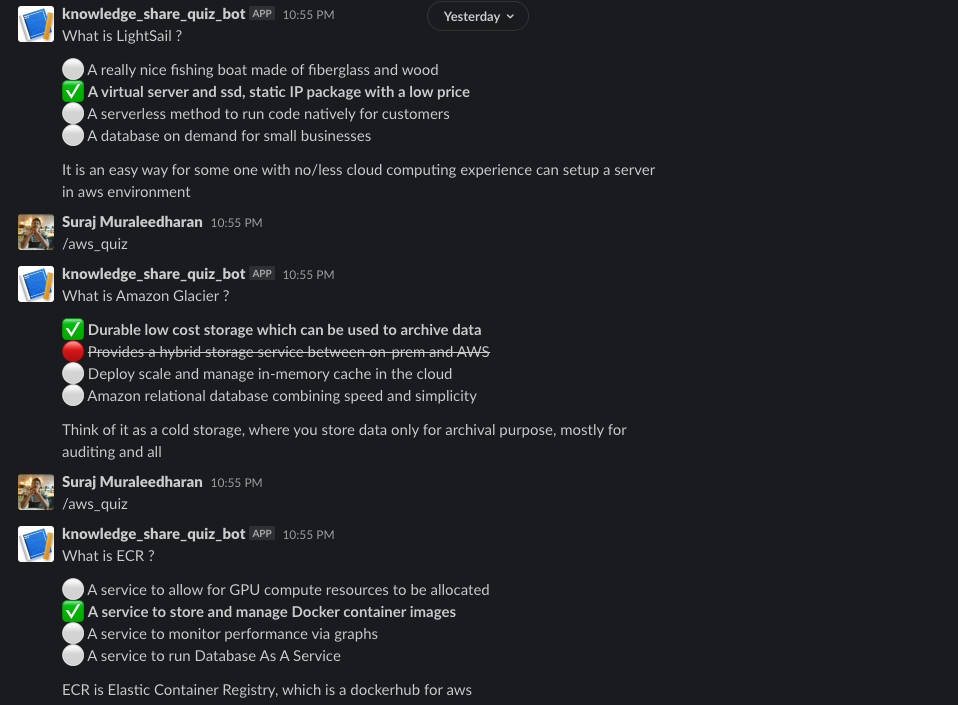
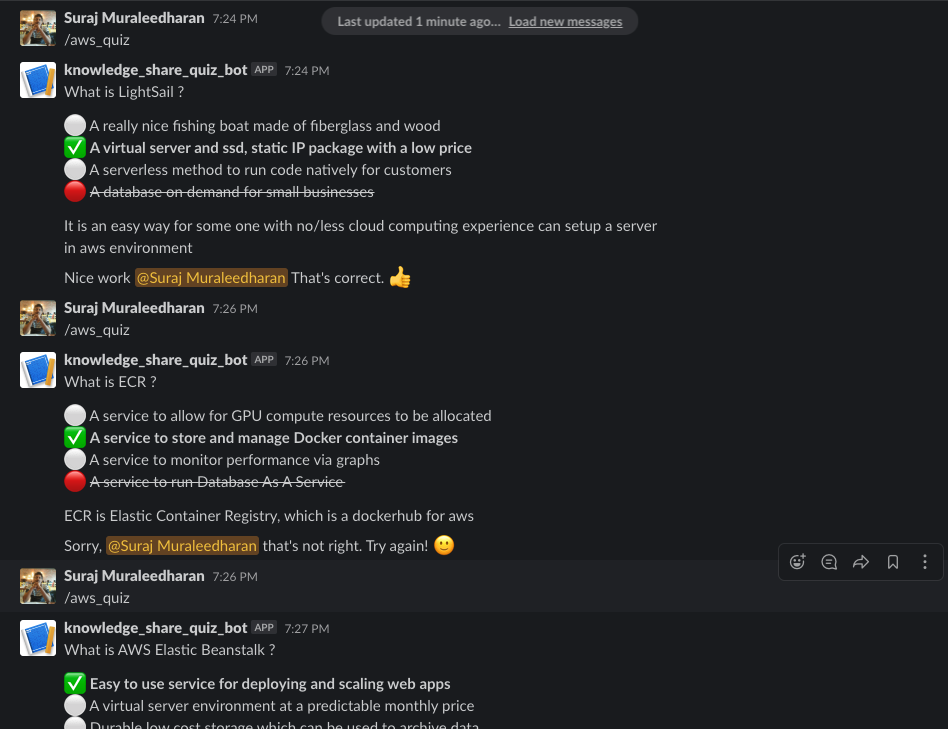
Quoting the selected user in response message

Changed region(s): [[0.0, 0.0, 0.673, 1.0], [0.8259, 0.7489, 0.9483, 0.7801], [0.3977, 0.7489, 0.4283, 0.7801]]

diff --git a/src/main/java/com/knowledge/share/quiz/mapper/QuizMapper.java b/src/main/java/com/knowledge/share/quiz/mapper/QuizMapper.java
@@ -1,24 +1,42 @@
 package com.knowledge.share.quiz.mapper;
 
 import com.slack.api.model.block.ActionsBlock;
+import com.slack.api.model.block.DividerBlock;
 import com.slack.api.model.block.LayoutBlock;
 import com.slack.api.model.block.SectionBlock;
 import com.slack.api.model.block.composition.MarkdownTextObject;
-import com.slack.api.model.block.composition.PlainTextObject;
 import com.slack.api.model.block.composition.TextObject;
 import com.slack.api.model.block.element.BlockElement;
-import com.slack.api.model.block.element.ButtonElement;
+import org.apache.logging.log4j.LogManager;
+import org.apache.logging.log4j.Logger;
 import org.springframework.stereotype.Component;
 
-import java.util.ArrayList;
+import java.util.LinkedList;
 import java.util.List;
+
+import static com.slack.api.model.block.composition.BlockCompositions.plainText;
+import static com.slack.api.model.block.element.BlockElements.asElements;
+import static com.slack.api.model.block.element.BlockElements.button;
 
 @Component
 public class QuizMapper {
-
+    private static final Logger logger = LogManager.getLogger(QuizMapper.class);
     private static final String WHITE_CHECK_MARK = ":white_check_mark: ";
     private static final String RED_CIRCLE = ":red_circle: ";
     private static final String WHITE_CIRCLE = ":white_circle: ";
+
+    private List<BlockElement> buttons(final Long id) {
+        return asElements(
+                button(b -> b.actionId("Answer-A")
+                        .text(plainText(pt -> pt.text("1"))).value(String.valueOf(id))),
+                button(b -> b.actionId("Answer-B")
+                        .text(plainText(pt -> pt.text("2"))).value(String.valueOf(id))),
+                button(b -> b.actionId("Answer-C")
+                        .text(plainText(pt -> pt.text("3"))).value(String.valueOf(id))),
+                button(b -> b.actionId("Answer-D")
+                        .text(plainText(pt -> pt.text("4"))).value(String.valueOf(id)))
+        );
+    }
 
     public LayoutBlock questionBlock(final String question) {
         SectionBlock.SectionBlockBuilder builder = SectionBlock.builder();
@@ -53,8 +71,15 @@ public class QuizMapper {
                                           final String option4,
                                           final String answer,
                                           final String selectedAnswer) {
+        List<String> optionsAsList = new LinkedList<>();
+        optionsAsList.add(option1);
+        optionsAsList.add(option2);
+        optionsAsList.add(option3);
+        optionsAsList.add(option4);
+        String message = generateFormattedMessage(optionsAsList, answer, selectedAnswer);
+        logger.info(message);
         StringBuilder builder = new StringBuilder();
-        if (answer.equals("A")) {
+        if (answer.equals("1")) {
             builder.append(WHITE_CHECK_MARK).append('*').append(option1).append('*');
         } else if (selectedAnswer.equals("1")) {
             builder.append(RED_CIRCLE).append('~').append(option1).append('~');
@@ -63,8 +88,7 @@ public class QuizMapper {
         }
         builder.append("\n");
 
-
-        if (answer.equals("B")) {
+        if (answer.equals("2")) {
             builder.append(WHITE_CHECK_MARK).append('*').append(option2).append('*');
         } else if (selectedAnswer.equals("2")) {
             builder.append(RED_CIRCLE).append('~').append(option2).append('~');
@@ -72,7 +96,7 @@ public class QuizMapper {
             builder.append(WHITE_CIRCLE).append(option2);
         }
         builder.append("\n");
-        if (answer.equals("C")) {
+        if (answer.equals("3")) {
             builder.append(WHITE_CHECK_MARK).append('*').append(option3).append('*');
         } else if (selectedAnswer.equals("3")) {
             builder.append(RED_CIRCLE).append('~').append(option3).append('~');
@@ -81,7 +105,7 @@ public class QuizMapper {
         }
         builder.append("\n");
 
-        if (answer.equals("D")) {
+        if (answer.equals("4")) {
             builder.append(WHITE_CHECK_MARK).append('*').append(option4).append('*');
         } else if (selectedAnswer.equals("4")) {
             builder.append(RED_CIRCLE).append('~').append(option4).append('~');
@@ -89,6 +113,7 @@ public class QuizMapper {
             builder.append(WHITE_CIRCLE).append(option4);
         }
         builder.append("\n");
+
         MarkdownTextObject.MarkdownTextObjectBuilder
                 textObjectBuilder = MarkdownTextObject.builder();
         textObjectBuilder.text(builder.toString());
@@ -96,77 +121,75 @@ public class QuizMapper {
         return sectionBlockBuilder.text(textObjectBuilder.build()).build();
     }
 
+    private String generateFormattedMessage(final List<String> optionsAsList,
+                                            final String answer,
+                                            final String selectedAnswer) {
+        StringBuilder builder = new StringBuilder();
+        for (String currentOption : optionsAsList) {
+            if (answer.equals("4")) {
+                builder.append(WHITE_CHECK_MARK)
+                        .append('*').append(currentOption).append('*');
+            } else if (selectedAnswer.equals("4")) {
+                builder.append(RED_CIRCLE)
+                        .append('~').append(currentOption).append('~');
+            } else {
+                builder.append(WHITE_CIRCLE).append(currentOption);
+            }
+            builder.append("\n");
+        }
+        return builder.toString();
+    }
+
     public LayoutBlock answers(final Long id) {
         ActionsBlock.ActionsBlockBuilder builder = ActionsBlock.builder();
         return builder.elements(buttons(id)).build();
     }
 
-    private List<BlockElement> buttons(final Long id) {
-        List<BlockElement> blockElements = new ArrayList<>();
-        blockElements.add(firstOption(id));
-        blockElements.add(secondOption(id));
-        blockElements.add(thirdOption(id));
-        blockElements.add(forthOption(id));
-        return blockElements;
-    }
-
-    private BlockElement firstOption(final Long id) {
-        ButtonElement.ButtonElementBuilder builder = ButtonElement.builder();
-        builder.value(String.valueOf(id)).text(firstButton()).actionId("Answer-A");
-        return builder.build();
-    }
-
-    private PlainTextObject firstButton() {
-        PlainTextObject.PlainTextObjectBuilder builder = PlainTextObject.builder();
-        builder.text("1").emoji(true);
-        return builder.build();
-    }
-
-    private BlockElement secondOption(final Long id) {
-        ButtonElement.ButtonElementBuilder builder = ButtonElement.builder();
-        builder.value(String.valueOf(id)).text(secondButton()).actionId("Answer-B");
-        return builder.build();
-    }
-
-    private PlainTextObject secondButton() {
-        PlainTextObject.PlainTextObjectBuilder builder = PlainTextObject.builder();
-        builder.text("2").emoji(true);
-        return builder.build();
-    }
-
-    private BlockElement thirdOption(final Long id) {
-        ButtonElement.ButtonElementBuilder builder = ButtonElement.builder();
-        builder.value(String.valueOf(id)).text(thirdButton()).actionId("Answer-C");
-        return builder.build();
-    }
-
-    private PlainTextObject thirdButton() {
-        PlainTextObject.PlainTextObjectBuilder builder = PlainTextObject.builder();
-        builder.text("3").emoji(true);
-        return builder.build();
-    }
-
-    private BlockElement forthOption(final Long id) {
-        ButtonElement.ButtonElementBuilder builder = ButtonElement.builder();
-        builder.value(String.valueOf(id)).text(forthButton()).actionId("Answer-D");
-        return builder.build();
-    }
-
-    private PlainTextObject forthButton() {
-        PlainTextObject.PlainTextObjectBuilder builder = PlainTextObject.builder();
-        builder.text("4").emoji(true);
-        return builder.build();
-    }
-
-    public LayoutBlock messageBlock(final String message) {
+    public LayoutBlock messageBlock(final String message,
+                                    final String user,
+                                    final boolean status) {
         SectionBlock.SectionBlockBuilder builder = SectionBlock.builder();
-        return builder.text(message(message)).build();
+        return builder.text(message(message, user, status)).build();
     }
 
-    private TextObject message(final String message) {
-        MarkdownTextObject.MarkdownTextObjectBuilder builder = MarkdownTextObject.builder();
-        builder.text(message);
-        return builder.build();
+    private TextObject message(final String message,
+                               final String user,
+                               final boolean status) {
+        MarkdownTextObject.MarkdownTextObjectBuilder
+                objectBuilder = MarkdownTextObject.builder();
+        StringBuilder builder = new StringBuilder();
+        builder.append(message);
+        builder.append(buildStatusMessage(user, status));
+        objectBuilder.text(builder.toString());
+        return objectBuilder.build();
+    }
+
+    private String buildStatusMessage(final String user, final boolean status) {
+        if (status) {
+            return "\n\nNice work <@" + user + "> That's correct. :thumbsup:";
+        } else {
+            return "\n\nSorry, <@" + user + "> that's not right." +
+                    " Try again! :slightly_smiling_face:";
+        }
+    }
+
+    public LayoutBlock askAgain() {
+        ActionsBlock.ActionsBlockBuilder builder = ActionsBlock.builder();
+        return builder.elements(askButtons()).build();
+    }
+
+    private List<BlockElement> askButtons() {
+        return asElements(
+                button(b -> b.actionId("Next-A")
+                        .text(plainText(pt -> pt.text("YES"))).value("YES")
+                        .style("primary")),
+                button(b -> b.actionId("Next-B")
+                        .text(plainText(pt -> pt.text("NO"))).value("NO"))
+        );
+    }
+
+    public LayoutBlock divider() {
+        return DividerBlock.builder().build();
     }
 
 }

diff --git a/src/main/java/com/knowledge/share/quiz/handler/QuizResponseHandler.java b/src/main/java/com/knowledge/share/quiz/handler/QuizResponseHandler.java
@@ -36,19 +36,25 @@ public class QuizResponseHandler implements BlockActionHandler {
         logger.info("actionVal is {}", actionVal);
         String selectedAnswer = req.getPayload().getActions().get(0).getText().getText();
         logger.info("selectedAnswer is {}", selectedAnswer);
+        String user = ctx.getRequestUserId();
+        logger.info("user is {}", user);
         Quiz quiz = quizService.getQuizFromId(actionVal);
+        boolean status = selectedAnswer.equalsIgnoreCase(quiz.getAnswer());
         try {
             ctx.respond(res -> res
                     .deleteOriginal(true)
                     .responseType("in_channel")
-                    .blocks(blocks(quiz, selectedAnswer)));
+                    .blocks(blocks(quiz, selectedAnswer, user, status)));
         } catch (IOException ex) {
             ex.printStackTrace();
         }
         return ctx.ack();
     }
 
-    private List<LayoutBlock> blocks(final Quiz quiz, final String selectedAnswer) {
+    private List<LayoutBlock> blocks(final Quiz quiz,
+                                     final String selectedAnswer,
+                                     final String user,
+                                     final boolean status) {
         List<LayoutBlock> blocks = new ArrayList<>();
         blocks.add(quizMapper.questionBlock(quiz.getQuestion()));
         blocks.add(quizMapper.optionResultsBlock(quiz.getOption1(),
@@ -57,8 +63,9 @@ public class QuizResponseHandler implements BlockActionHandler {
                 quiz.getOption4(),
                 quiz.getAnswer(),
                 selectedAnswer));
-        //todo: get user and pass here
-        blocks.add(quizMapper.messageBlock(quiz.getMessage()));
+        blocks.add(quizMapper.messageBlock(quiz.getMessage(), user, status));
+        blocks.add(quizMapper.divider());
+        blocks.add(quizMapper.askAgain());
         return blocks;
     }
 

diff --git a/src/main/java/com/knowledge/share/quiz/service/QuizServiceImpl.java b/src/main/java/com/knowledge/share/quiz/service/QuizServiceImpl.java
@@ -7,7 +7,6 @@ import org.apache.logging.log4j.Logger;
 import org.springframework.beans.factory.annotation.Autowired;
 import org.springframework.stereotype.Service;
 
-import java.util.List;
 import java.util.Optional;
 import java.util.Random;
 
@@ -20,16 +19,6 @@ public class QuizServiceImpl implements QuizService {
 
     @Override
     public Quiz generateRandomQuiz() {
-        logger.info("Inside random quiz !!!");
-        List<Quiz> quizzes = quizDAO.fetchAllQuizFromDB();
-        int random = new Random().nextInt(quizzes.size());
-        logger.info("Random number is :{}", random);
-        Quiz[] quizArray = quizzes.toArray(new Quiz[quizzes.size() - 1]);
-        return quizArray[random];
-    }
-
-    @Override
-    public Quiz generateRandomQuizNewImplementation() {
         Quiz quiz = null;
         logger.info("Inside generateRandomQuizNewImplementation quiz !!!");
         long count = quizDAO.countOfQuizzes();

diff --git a/src/main/java/com/knowledge/share/quiz/service/QuizService.java b/src/main/java/com/knowledge/share/quiz/service/QuizService.java
@@ -5,7 +5,5 @@ import com.knowledge.share.quiz.dao.entity.Quiz;
 public interface QuizService {
     Quiz generateRandomQuiz();
 
-    Quiz generateRandomQuizNewImplementation();
-
     Quiz getQuizFromId(String id);
 }
